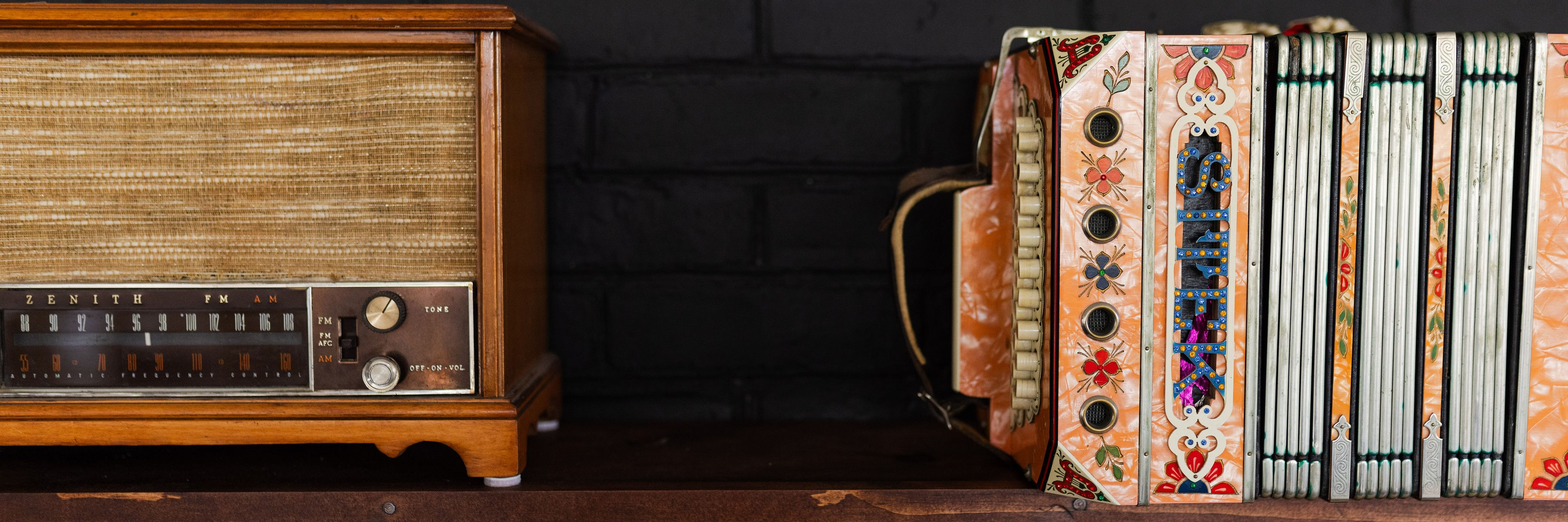
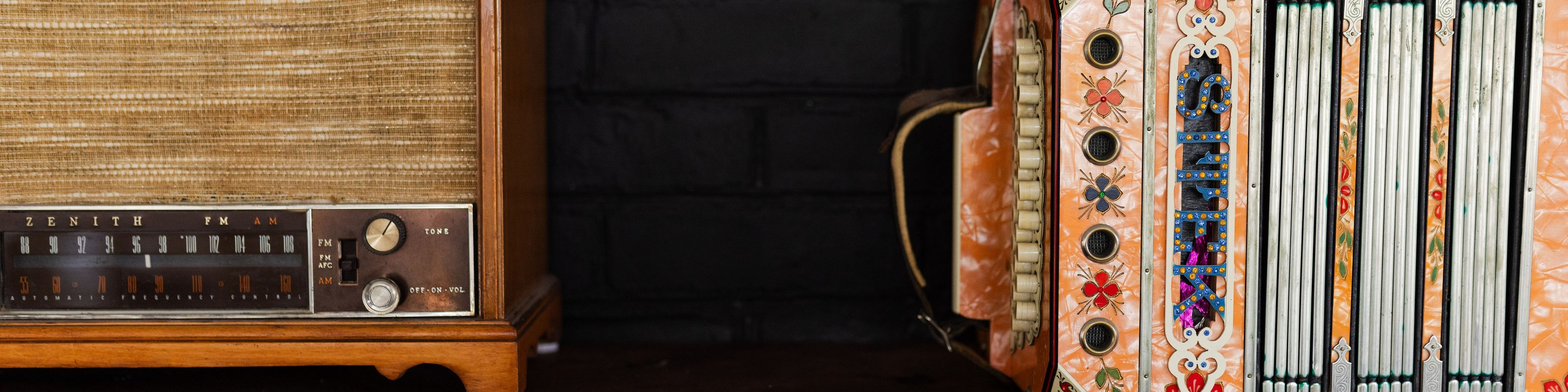
update header images

diff --git a/_pages/about.md b/_pages/about.md
@@ -13,4 +13,4 @@ Many years later, my grandparents showed me his instrument and encouraged me to
 learn more and try playing it. As part of my music and computer science studies at UVA,
 I decided to build this site. Here I share a digital instrument I made from sampling the
 Chemnitzer, my great-grandfather's large library of sheet music, and articles about the
-Chemnitzer's history, story, and music theory.
+Chemnitzer's history, story, and function.

diff --git a/_pages/articles.md b/_pages/articles.md
@@ -6,5 +6,5 @@ author_profile: true
 header:
   overlay_image: /assets/images/headers/pateks-club.jpg
   overlay_filter: "0.3"
-  image_description: "Walter holding his concertina in an image with his family"
+  image_description: "Group of well-dressed musicians with concertinas and other polka instruments"
 ---
